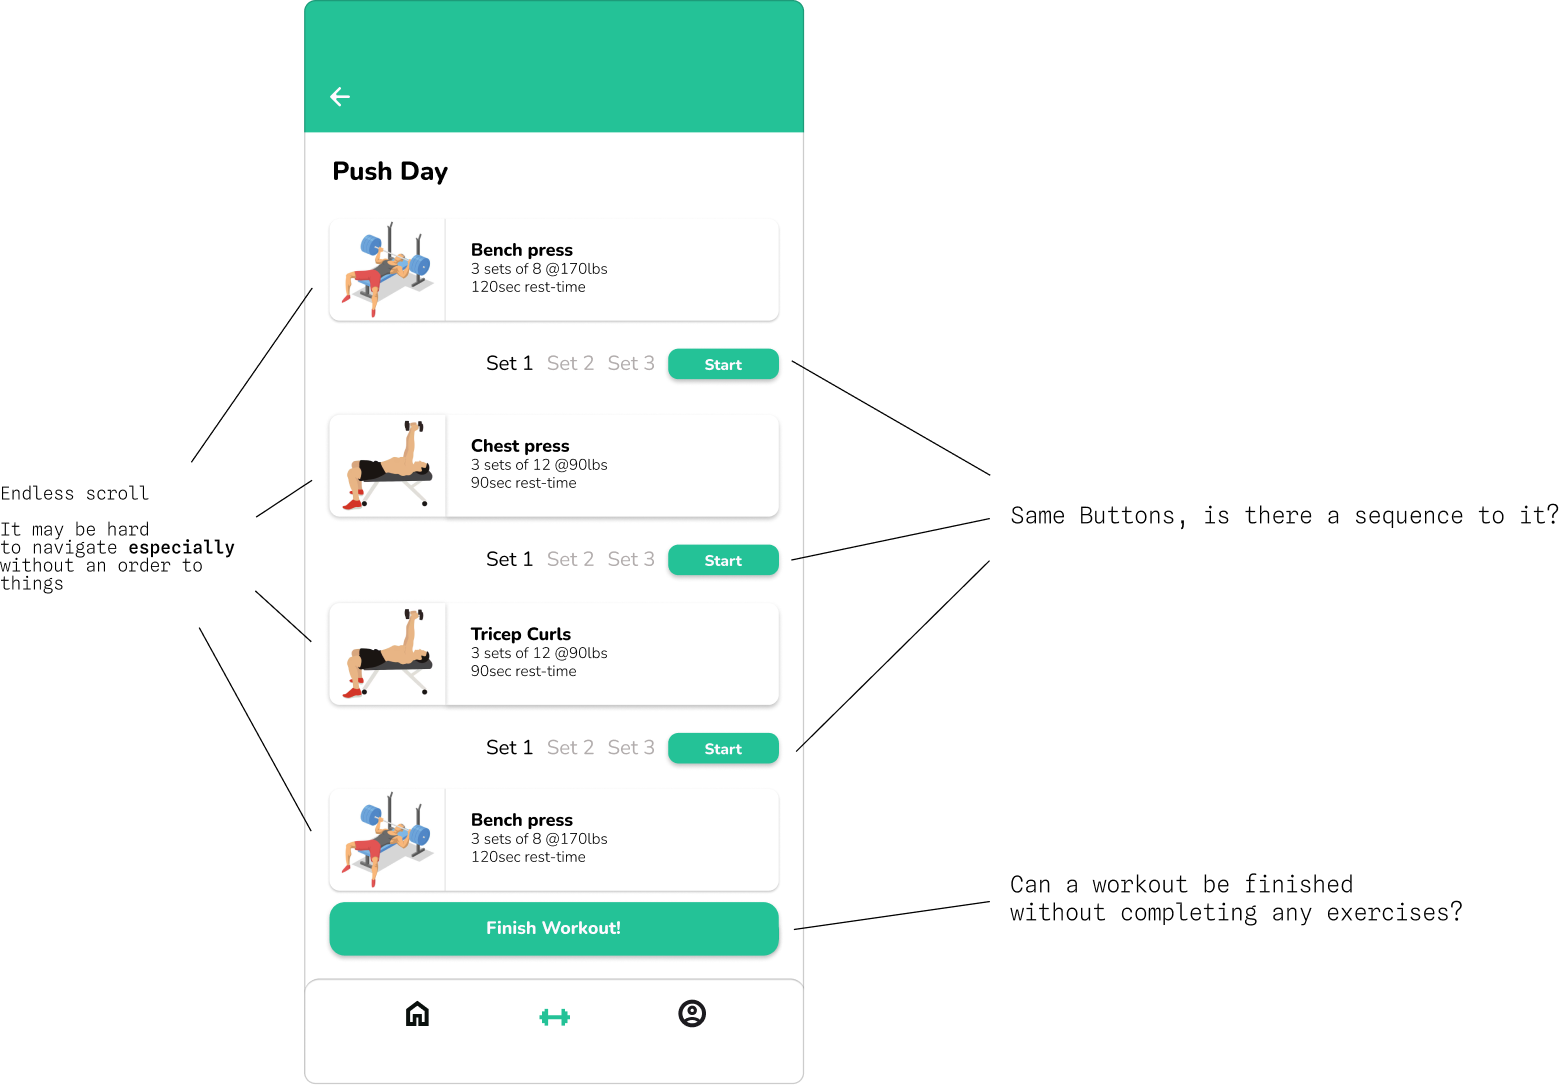
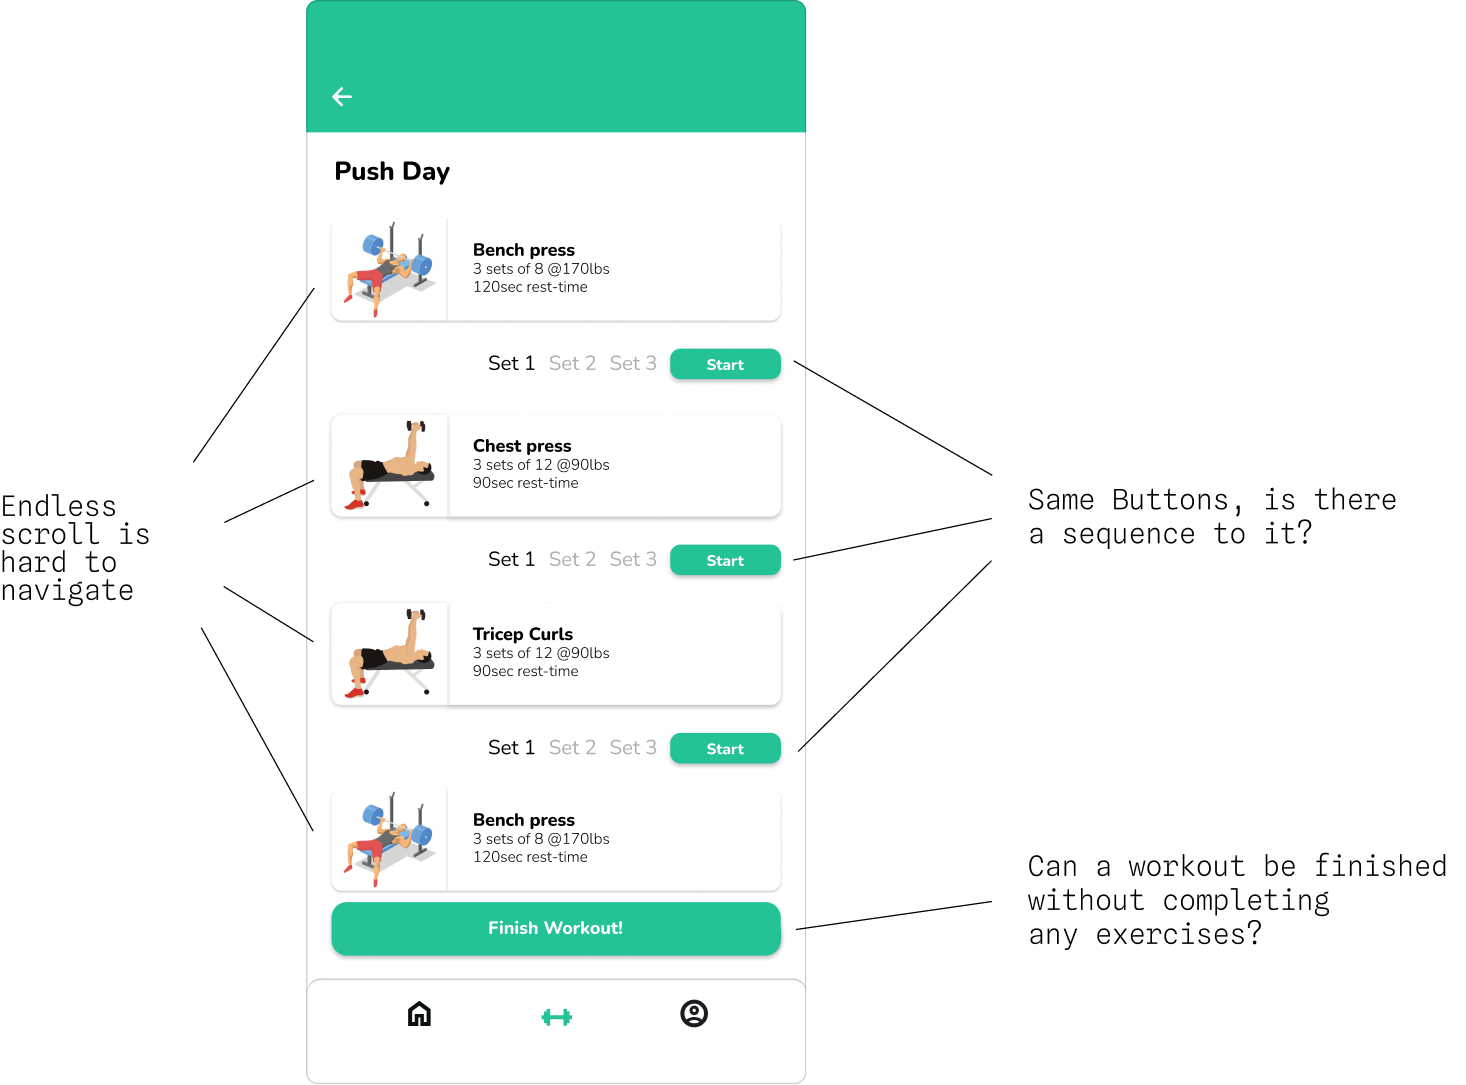
Add LevelUp Project page

diff --git a/app/levelup/page.js b/app/levelup/page.js
@@ -78,14 +78,13 @@ export default function LevelUpPage() {
         >
           <ContentSection title="The Start" variant="textRight">
             <p>
-              A developer friend invited me to participate in a hackathon.
-              <br />I then asked one of our mutual friend to join in with us,
-              forming a team of 3.
+              A developer friend invited me to participate in a hackathon. I
+              then asked one of our mutual friend to join in with us, forming a
+              team of 3.
             </p>
             <p>
-              It&apos;s for RevenueCat&apos;s annual hackathon, Shipaton.
-              <br />
-              The only requirements are that it&apos;s a mobile app and includes
+              It&apos;s for RevenueCat&apos;s annual hackathon, Shipaton. The
+              only requirements are that it&apos;s a mobile app and includes
               subscription-based monetization.
             </p>
           </ContentSection>
@@ -154,24 +153,14 @@ export default function LevelUpPage() {
               />
             }
           >
+            <p>Our standout element is the virtual Pet.</p>
             <p>
-              Our standout element is the virtual
-              <br />
-              Pet.
+              It&apos;s a digital companion that grows alongside you as you
+              complete workouts.
             </p>
             <p>
-              It&apos;s a digital companion that grows
-              <br />
-              alongside you as you complete
-              <br />
-              workouts.
-            </p>
-            <p>
-              You workout, you get food to feed
-              <br />
-              the pet and help it gain experience
-              <br />
-              points as it grows
+              You workout, you get food to feed the pet and help it gain
+              experience points as it grows
             </p>
           </ContentSection>
         </ScrollFade>
@@ -310,7 +299,176 @@ export default function LevelUpPage() {
                 className="content-section-image-single"
               />
             }
-          ></ContentSection>
+          >
+            <p>
+              Four high-fidelity screens demonstrate the final UI: a home
+              <br />
+              dashboard with stats and daily quests, calories tracking with the
+              <br />
+              pink companion, a Push Day workout plan with exercises and
+              <br />
+              rest times, and a goal visual with the basketball hoop and score.
+            </p>
+          </ContentSection>
+        </ScrollFade>
+        <ScrollFade
+          wrapperClassName={styles.scrollFadeWrap}
+          visibleClassName={styles.scrollFadeVisible}
+        >
+          <ContentSection
+            title="Minigames"
+            variant="textLeftImagesRight"
+            rightContentNoShadow
+            rightContent={
+              <img
+                src="/levelup/minigames.png"
+                alt="LevelUp minigame screens — timer, basketball hoop, rest time"
+                className="content-section-image-single"
+              />
+            }
+          >
+            <p>I wanted to keep these easy for everyone.</p>
+            <p>
+              Something that feels easy but rewarding and fun to play at the
+              same time.
+            </p>
+          </ContentSection>
+        </ScrollFade>
+        <ScrollFade
+          wrapperClassName={styles.scrollFadeWrap}
+          visibleClassName={styles.scrollFadeVisible}
+        >
+          <ContentSection title="Challenge" variant="textRight">
+            <p>
+              The challenge was in the timing—what happens when your rest time
+              ends and you&apos;re still playing?
+            </p>
+            <p>
+              As a temporary solution, I chose to automatically end the game
+              when the rest timer finishes to keep workouts on track.
+            </p>
+            <p>
+              Some alternatives I thought of was to either allow users to
+              continue on their next rest or ensure each minigame fits the rest
+              time provided.
+            </p>
+          </ContentSection>
+        </ScrollFade>
+        <ScrollFade
+          wrapperClassName={styles.scrollFadeWrap}
+          visibleClassName={styles.scrollFadeVisible}
+        >
+          <ContentSection
+            title="Workout"
+            variant="textLeftImagesRight"
+            rightContentNoShadow
+            rightContent={
+              <img
+                src="/levelup/bad.png"
+                alt="LevelUp Push Day workout screen with annotations on clarity and navigation"
+                className="content-section-image-single"
+              />
+            }
+          >
+            <p>
+              I needed to remind myself a few times that the core of this app is
+              working out.
+            </p>
+            <p>
+              It&apos;s not very clear what and where to click, so I&apos;ve
+              gone back and refined it.
+            </p>
+          </ContentSection>
+        </ScrollFade>
+        <ScrollFade
+          wrapperClassName={styles.scrollFadeWrap}
+          visibleClassName={styles.scrollFadeVisible}
+        >
+          <ContentSection
+            title="Redesign"
+            variant="textRight"
+            bottomImage={{
+              src: "/levelup/redesign.png",
+              alt: "LevelUp workout screen before and after redesign — numbering and greyed-out elements",
+            }}
+            bottomImageNoShadow
+          >
+            <p>
+              I added a numbering system so the workouts will have more
+              structure. I also greyed out elements that are not active.
+            </p>
+          </ContentSection>
+        </ScrollFade>
+        <ScrollFade
+          wrapperClassName={styles.scrollFadeWrap}
+          visibleClassName={styles.scrollFadeVisible}
+        >
+          <ContentSection
+            title="Experience Progression"
+            variant="textLeftImagesRight"
+            rightContentNoShadow
+            rightContent={
+              <img
+                src="/levelup/lvlhome.png"
+                alt="LevelUp home screen — pet level and experience progression from Lvl 30 to Lvl 98"
+                className="content-section-image-single"
+              />
+            }
+          >
+            <p>
+              Instead of gaining food and feeding the pet, I decided it&apos;s
+              better to just give experience points altogether.
+            </p>
+            <p>This skips a step that could feel redundant over time.</p>
+          </ContentSection>
+        </ScrollFade>
+        <ScrollFade
+          wrapperClassName={styles.scrollFadeWrap}
+          visibleClassName={styles.scrollFadeVisible}
+        >
+          <ContentSection title="Aftermath" variant="textRight">
+            <p>
+              On the day of the sprint, where we were supposed to get most of
+              the work done on the coding side of things. We were heavily
+              distracted and ended up just eating, chatting, and playing
+              basketball.
+            </p>
+            <p>
+              It&apos;s a shame but I was happy to be able to tackle a design
+              problem as the sole designer regardless of the outcome of this
+              hackathon.
+            </p>
+          </ContentSection>
+        </ScrollFade>
+        <ScrollFade
+          wrapperClassName={styles.scrollFadeWrap}
+          visibleClassName={styles.scrollFadeVisible}
+        >
+          <ContentSection
+            title="Retrospective"
+            variant="textLeftImagesRight"
+            rightContentNoShadow
+            rightContent={
+              <img
+                src="/levelup/retro.png"
+                alt="LevelUp slime characters — sleepy with Zzz and angry expression"
+                className="content-section-image-single"
+              />
+            }
+          >
+            <p>
+              There are still lots of possible additions that could take this
+              app further.
+            </p>
+            <p>
+              Elements such as customization, friend leaderboard, daily
+              challenges, etc.
+            </p>
+            <p>
+              When I&apos;m feeling up for the challenge, I&apos;ll definitely
+              come back to this project and make it even better.
+            </p>
+          </ContentSection>
         </ScrollFade>
         <ScrollFade
           wrapperClassName={styles.scrollFadeWrap}
@@ -319,11 +477,12 @@ export default function LevelUpPage() {
           <section className={styles.thankYou}>
             <div className={styles.thankYouInner}>
               <p className={styles.thankYouText}>
-                Thanks for reading. More case study content can be added here as
-                you build out the page.
+                Thank you, feel free to check out
+                <br />
+                my other works!
               </p>
-              <a href="/#work" className={styles.thankYouLink}>
-                Back to work
+              <a href="/" className={styles.thankYouLink}>
+                Back home
               </a>
             </div>
           </section>

diff --git a/app/levelup/page.module.css b/app/levelup/page.module.css
@@ -30,6 +30,10 @@
   font-size: clamp(1.75rem, 4vw, 2.5rem);
 }
 
+.main :global(.introduction) {
+  padding-bottom: 0;
+}
+
 .introductionImageWrap {
   max-width: 100%;
   margin-top: -40px;
@@ -43,7 +47,7 @@
   width: 100%;
   max-width: 1200px;
   margin: 0 auto;
-  padding: 60px var(--space-40) 60px;
+  padding: 20px var(--space-40) 60px;
 }
 
 .divider {
@@ -95,7 +99,7 @@
 
 @media (max-width: 1024px) {
   .dividerWrap {
-    padding: 60px var(--space-30) 60px;
+    padding: 20px var(--space-30) 60px;
   }
 
   .thankYou {
@@ -109,7 +113,7 @@
 
 @media (max-width: 768px) {
   .dividerWrap {
-    padding: 60px var(--space-20) 60px;
+    padding: 20px var(--space-20) 60px;
   }
 
   .thankYou {
